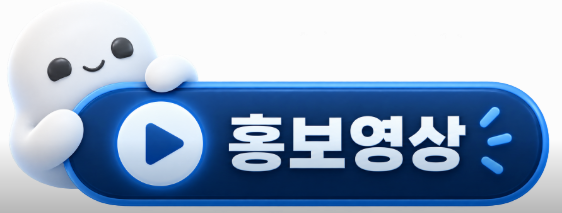
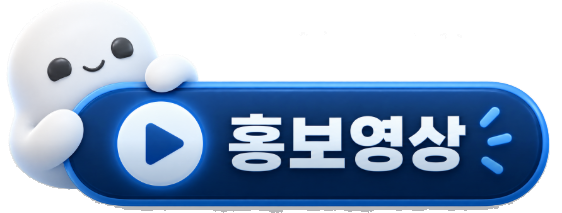
style: refine Agent Home video promotion

Changed region(s): [[0.0, 0.7324, 1.0, 1.0]]

diff --git a/index.html b/index.html
@@ -24,11 +24,11 @@
 
     <meta name="naver-site-verification" content="ccad66f9c69093825b52c06ba44f369b1f2e4f2b" />
 
-    <link rel="stylesheet" href="./agent_home.css?v=20260912-promo-video" />
+    <link rel="stylesheet" href="./agent_home.css?v=20260912-promo-video-white" />
     <link rel="stylesheet" href="./ai_widget.css?v=20260828-agent-home-polish" />
     <script src="https://unpkg.com/lucide@0.468.0/dist/umd/lucide.min.js" defer></script>
     <script src="./agent_home_first_prompt.js?v=20260831-first-prompt" defer></script>
-    <script src="./agent_home.js?v=20260912-promo-video" defer></script>
+    <script src="./agent_home.js?v=20260912-promo-video-white" defer></script>
     <script src="./ai_widget.js?v=20260901-panel-state" defer></script>
 
     <style>
@@ -155,9 +155,16 @@
 
             <section class="agent-home__first-prompt" aria-labelledby="agent-home-first-prompt-title">
                 <form id="agent-home-first-prompt-form" autocomplete="off" novalidate>
-                    <label id="agent-home-first-prompt-title" for="agent-home-first-prompt-input">
-                        🏠 Agent Home
-                    </label>
+                    <div class="agent-home__first-prompt-heading">
+                        <label id="agent-home-first-prompt-title" for="agent-home-first-prompt-input">
+                            🏠 Agent Home
+                        </label>
+                        <span aria-hidden="true"></span>
+                        <span class="agent-home__promo-label" aria-hidden="true">
+                            <span>🎞</span>
+                            <span>Video</span>
+                        </span>
+                    </div>
                     <div class="agent-home__first-prompt-layout">
                         <div class="agent-home__first-prompt-control">
                             <input
@@ -180,7 +187,7 @@
                             aria-label="EosWos 홍보영상 재생"
                             aria-controls="agent-home-promo-modal"
                             aria-expanded="false">
-                            <img src="./assets/EosWos_Promo_Button.png" alt="" draggable="false" />
+                            <img src="./assets/EosWos_Promo_Button.png?v=20260912-white-background" alt="" draggable="false" />
                         </button>
                     </div>
                     <p id="agent-home-first-prompt-status" role="status" aria-live="polite" hidden></p>

diff --git a/agent_home.css b/agent_home.css
@@ -192,17 +192,33 @@
 
 .agent-home__first-prompt label {
     display: block;
-    margin-bottom: 10px;
+    margin: 0;
     color: var(--agent-navy);
     font-size: 14px;
     font-weight: 800;
 }
 
+.agent-home__first-prompt-heading,
 .agent-home__first-prompt-layout {
     display: grid;
     grid-template-columns: minmax(0, 1fr) 1px 130px;
     align-items: center;
     gap: 14px;
+}
+
+.agent-home__first-prompt-heading {
+    margin-bottom: 10px;
+}
+
+.agent-home__promo-label {
+    display: inline-flex;
+    align-items: center;
+    justify-content: flex-start;
+    gap: 4px;
+    color: var(--agent-navy);
+    font-size: 14px;
+    font-weight: 800;
+    white-space: nowrap;
 }
 
 .agent-home__first-prompt-control {
@@ -291,7 +307,7 @@
     align-items: center;
     justify-content: center;
     padding: 0;
-    background: transparent;
+    background: #ffffff;
     border: 0;
     border-radius: 10px;
     cursor: pointer;
@@ -875,6 +891,7 @@ body.agent-home-active .site-hit-counter {
         border-radius: 12px;
     }
 
+    .agent-home__first-prompt-heading,
     .agent-home__first-prompt-layout {
         grid-template-columns: minmax(0, 1fr) 1px 108px;
         gap: 8px;

diff --git a/tests/test_agent_home_promo_video.py b/tests/test_agent_home_promo_video.py
@@ -19,13 +19,13 @@ def _css_block(selector: str) -> str:
     return HOME_CSS.split(f"{selector} {{", 1)[1].split("}", 1)[0]
 
 
-def test_supplied_promo_assets_are_preserved_exactly() -> None:
+def test_promo_artwork_uses_the_approved_white_background_asset() -> None:
     image = ROOT / "assets" / "EosWos_Promo_Button.png"
     video = ROOT / "assets" / "EosWos_Demo.mp4"
 
-    assert image.stat().st_size == 104_208
+    assert image.stat().st_size == 94_237
     assert video.stat().st_size == 12_008_438
[3 lines of base64/hex data omitted]
 
 
@@ -39,7 +39,9 @@ def test_promo_button_is_inside_the_home_prompt_card() -> None:
 
     assert 'id="agent-home-promo-trigger"' in prompt
     assert 'aria-label="EosWos 홍보영상 재생"' in prompt
-    assert 'src="./assets/EosWos_Promo_Button.png"' in prompt
+    assert 'src="./assets/EosWos_Promo_Button.png?v=20260912-white-background"' in prompt
+    assert '<span>🎞</span>' in prompt
+    assert '<span>Video</span>' in prompt
     assert "data-mcore-route" not in prompt
     assert HTML.count('id="agent-home-promo-trigger"') == 1
 
@@ -62,13 +64,19 @@ def test_outer_card_and_input_heights_remain_the_release_values() -> None:
 
 
 def test_only_the_prompt_width_is_reallocated_for_the_promo_image() -> None:
+    shared_heading_grid = HOME_CSS.split(
+        ".agent-home__first-prompt-heading,",
+        1,
+    )[1].split("}", 1)[0]
     layout = _css_block(".agent-home__first-prompt-layout")
     trigger = _css_block(".agent-home__promo-trigger")
     image = _css_block(".agent-home__promo-trigger img")
 
+    assert "grid-template-columns: minmax(0, 1fr) 1px 130px;" in shared_heading_grid
     assert "grid-template-columns: minmax(0, 1fr) 1px 130px;" in layout
     assert "width: 130px;" in trigger
     assert "height: 50px;" in trigger
+    assert "background: #ffffff;" in trigger
     assert "object-fit: contain;" in image
     assert "transform: scale(1.02);" in HOME_CSS
 

diff --git a/tests/test_agent_home_static.py b/tests/test_agent_home_static.py
@@ -112,4 +112,4 @@ def test_home_return_invalidates_cross_origin_mcore_route_before_reopen() -> Non
     assert "frameRouteInvalidated || frame.src !== targetSource" in HOME_JS
     assert "frameRouteInvalidated = false" in HOME_JS
     assert "showHome({ updateHistory: false, invalidateFrameRoute: false })" in HOME_JS
-    assert "agent_home.js?v=20260912-promo-video" in INDEX
+    assert "agent_home.js?v=20260912-promo-video-white" in INDEX
